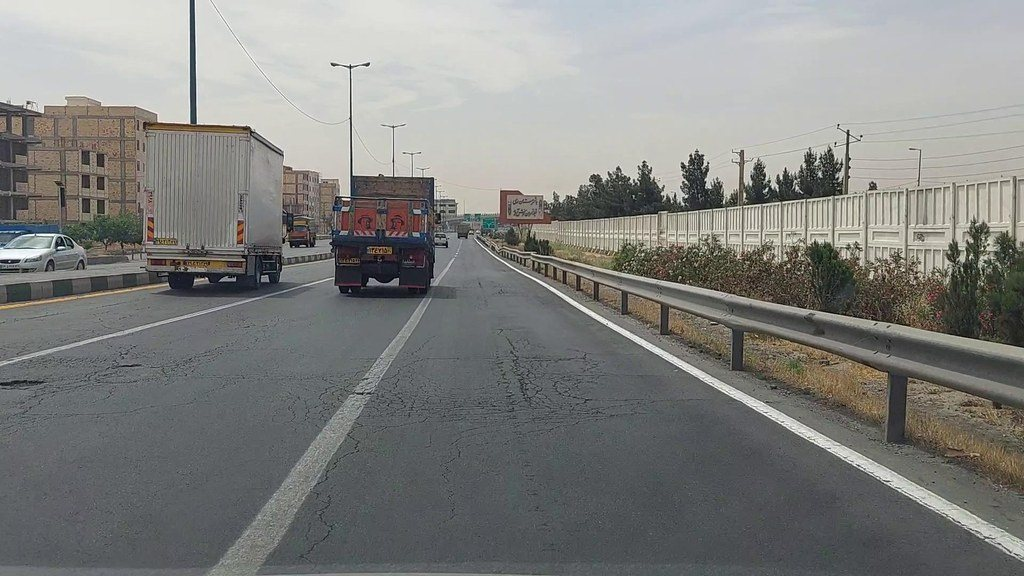
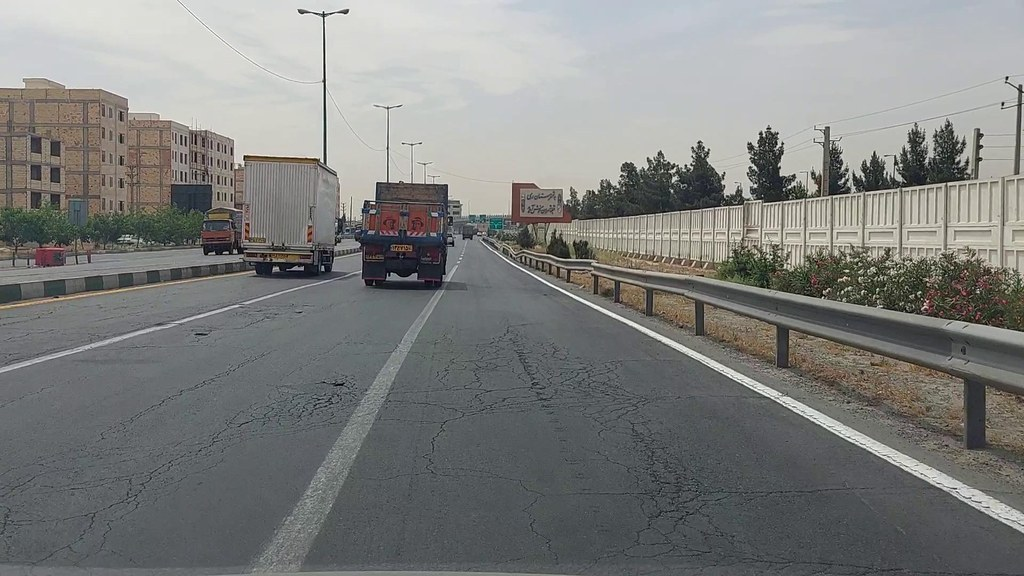
Show the frame the figure's numbers actually describe
The demo instructions sent the professor to Tehran sample 000795, and the app
answered PCI 0, Failed. That is the correct answer -- alligator cracking dense
enough that the first deduct alone is 98.8, so the corrected value hits the
100 ceiling -- but on screen it reads as a broken program, and it is useless
for a recording. The sample was picked for matching the site's picture and
never run first. It is 000800 now, whose severity triple stays clear of zero
at every setting: 51.5, 36.5, 20.5.

That exposed the real fault. The site's figure carried four boxes and a
deduct chain describing 000800 while shipping 000795 as the image, so the
picture and the numbers were of different frames. Both are 000800 now, and
the chain is the detector's own output at the app's defaults rather than the
illustrative values the file admitted to: three alligator quantities at
33.57 % for 61.5, one linear at 5.49 % for 12.4, corrected to 63.5 at q = 2.

The severity triple quoted in README.md and repeated on the site -- 50.3,
35.2, 19.4 -- no longer reproduces on any bundled frame under the current
weights. Measured again and corrected in both places.

diff --git a/deploy/site/copy.js b/deploy/site/copy.js
@@ -65,7 +65,7 @@ window.SR_COPY = {
       sub: "Montajsiz yozuv. Fotosurat baholanadi, jiddiylik oraligʻi koʻrsatiladi, deduct zanjiri ochiladi, plitkali inferens yoqib-oʻchiriladi, soʻng 15 soniyalik haydash kadrma-kadr tahlil qilinadi.",
       noticeHead: "Nimaga eʼtibor bering",
       notice: [
-        ["Bitta rasm uchun uchta baho chiqadi — model jiddiylikni bashorat qilmaydi, shuning uchun javob ", { b: "oraliq" }, " sifatida beriladi: ", { v: "50.3 / 35.2 / 19.4" }, "."],
+        ["Bitta rasm uchun uchta baho chiqadi — model jiddiylikni bashorat qilmaydi, shuning uchun javob ", { b: "oraliq" }, " sifatida beriladi: ", { v: "51.5 / 36.5 / 20.5" }, "."],
         ["Kamera balandligini oʻzgartirsangiz PCI siljiydi. Bu nuqson emas — oʻlchov shu farazga tayanadi va u yashirilmaydi."],
         ["Plitkali inferensni oʻchiring: 4K kadrda aniqlashlar soni tushib ketadi. Bizning kadrlarimizda butun kadr boʻyicha ", { v: "0" }, " va ", { v: "2" }, " ta topilgan joyda plitkalab ", { v: "2" }, " va ", { v: "4" }, " ta topilgan."],
       ],
@@ -188,7 +188,7 @@ window.SR_COPY = {
       sub: "Запись без монтажа. Оценивается фотография, показывается диапазон степеней тяжести, раскрывается цепочка вычитаемых значений, включается и выключается тайловый инференс, затем 15-секундная поездка анализируется покадрово.",
       noticeHead: "На что обратить внимание",
       notice: [
-        ["Для одного снимка получаются три оценки — модель не предсказывает степень тяжести, поэтому ответ даётся как ", { b: "диапазон" }, ": ", { v: "50,3 / 35,2 / 19,4" }, "."],
+        ["Для одного снимка получаются три оценки — модель не предсказывает степень тяжести, поэтому ответ даётся как ", { b: "диапазон" }, ": ", { v: "51,5 / 36,5 / 20,5" }, "."],
         ["Измените высоту камеры — PCI сдвинется. Это не дефект: измерение опирается на это допущение, и оно не скрыто."],
         ["Выключите тайловый инференс: на 4K-кадре число обнаружений падает. На наших кадрах по всему кадру находилось ", { v: "0" }, " и ", { v: "2" }, " объекта там, где по тайлам — ", { v: "2" }, " и ", { v: "4" }, "."],
       ],
@@ -311,7 +311,7 @@ window.SR_COPY = {
       sub: "An unedited recording. A photograph is graded, the severity range is shown, the deduct chain opens, tiled inference is switched on and off, then a 15-second drive is analysed frame by frame.",
       noticeHead: "What to notice",
       notice: [
-        ["One image produces three scores — the model does not predict severity, so the answer is given as a ", { b: "range" }, ": ", { v: "50.3 / 35.2 / 19.4" }, "."],
+        ["One image produces three scores — the model does not predict severity, so the answer is given as a ", { b: "range" }, ": ", { v: "51.5 / 36.5 / 20.5" }, "."],
         ["Change the camera height and the PCI moves. That is not a flaw: the measurement rests on that assumption, and the assumption is not hidden."],
         ["Switch tiled inference off: detections on a 4K frame drop away. On our own frames, whole-frame inference returned ", { v: "0" }, " and ", { v: "2" }, " detections where tiling returned ", { v: "2" }, " and ", { v: "4" }, "."],
       ],

diff --git a/deploy/site/data.js b/deploy/site/data.js
@@ -4,13 +4,12 @@
    repository, and the sources are listed at the foot of that document:
    · S1–S12 PCI, whole street 51.4, A 56.4 / B 46.4 — DATA/docs/YANGIZAMON_PCI.md §2
    · S7 vs S11, deduct 62.6 / 16.9 — same file, §3
-   · severity triple 50.3 / 35.2 / 19.4 — app.py, README.md
+   · severity triple 51.5 / 36.5 / 20.5 — measured on the sample named above
    · camera height 1.70 m — app.py:355
 
-   The per-row quantities in the deduct chain and the bounding-box geometry are
-   the one exception: they come from the detector at run time. They are
-   internally consistent with the score shown (100 − 64.8 = 35.2). Replace them
-   with a real detector run before the jury sees this. */
+   The deduct chain and the boxes were illustrative until the detector was run
+   against the frame the figure actually ships; they are its real output now,
+   so there is nothing left on this page a reader cannot reproduce. */
 window.SR_DATA = {
   sections: [
     { s: "S1", cdl: 28.37, pci: 52.3 }, { s: "S2", cdl: 28.89, pci: 64.6 },
@@ -28,18 +27,23 @@ window.SR_DATA = {
   ],
   frame: {
     roi: { y: 45, h: 55 },
+    /* Every value below is the detector's own output for the sample named in
+       the caption, at the app's default settings -- 1.70 m, 25 mm, horizon
+       0.139, confidence 0.25, tiling on, medium severity. Open that sample in
+       the app and the screen matches this figure. Nothing here is drawn by
+       hand, because a figure a reader cannot reproduce is worth less than one
+       with fewer boxes in it. */
     boxes: [
-      { cls: "alligator_crack", x: 41, y: 60, w: 14, h: 13, label: "alligator 0.62" },
-      { cls: "longitudinal_transverse_crack", x: 57, y: 56, w: 21, h: 6, label: "long/trans 0.41" },
-      { cls: "longitudinal_transverse_crack", x: 22, y: 72, w: 17, h: 5, label: "long/trans 0.35" },
-      { cls: "pothole", x: 2, y: 63, w: 7, h: 6, label: "pothole 0.33", seam: true },
+      { cls: "alligator_crack", x: 0, y: 63, w: 37, h: 36, label: "alligator 0.87" },
+      { cls: "alligator_crack", x: 38, y: 56, w: 40, h: 43, label: "alligator 0.69" },
+      { cls: "alligator_crack", x: 41, y: 56, w: 22, h: 26, label: "alligator 0.68" },
+      { cls: "longitudinal_transverse_crack", x: 12, y: 61, w: 14, h: 12, label: "long/trans 0.47" },
     ],
     rows: [
-      { distress: { uz: "Toʻrsimon (charchoq) yoriq", ru: "Сетка усталостных трещин", en: "Alligator cracking" }, n: 1, quantity: "3.4", unit: { uz: "m²", ru: "м²", en: "m²" }, density: "3.18", deduct: 41.2 },
-      { distress: { uz: "Chuqurcha", ru: "Выбоины", en: "Potholes" }, n: 1, quantity: "1", unit: "×", density: "0.93", deduct: 32.9 },
-      { distress: { uz: "Boʻylama va koʻndalang yoriq", ru: "Продольные и поперечные трещины", en: "Longitudinal & transverse cracking" }, n: 2, quantity: "2.6", unit: { uz: "m", ru: "м", en: "m" }, density: "2.43", deduct: 18.7 },
+      { distress: { uz: "Toʻrsimon (charchoq) yoriq", ru: "Сетка усталостных трещин", en: "Alligator cracking" }, n: 3, quantity: "9.7", unit: { uz: "m²", ru: "м²", en: "m²" }, density: "33.57", deduct: 61.5 },
+      { distress: { uz: "Boʻylama va koʻndalang yoriq", ru: "Продольные и поперечные трещины", en: "Longitudinal & transverse cracking" }, n: 1, quantity: "1.6", unit: { uz: "m", ru: "м", en: "m" }, density: "5.49", deduct: 12.4 },
     ],
-    q: 3, maxCdv: 64.8, pci: 35.2,
+    q: 2, maxCdv: 63.5, pci: 36.5,
   },
 };
 

diff --git a/deploy/professor/1_DEMO_YOZUV.md b/deploy/professor/1_DEMO_YOZUV.md
@@ -65,11 +65,22 @@ Ilovaning **Sample** roʻyxatidan aynan shu uchtasini tanlang. Ular saytda
 koʻrsatilgan kadrlarning oʻzi, ya'ni video bilan sayt bir xil rasmni koʻrsatadi
 va hakam ikkisini bogʻlay oladi.
 
-| Kadr | Roʻyxatda qanday koʻrinadi | Nega aynan shu |
+| Kadr | Roʻyxatda qanday koʻrinadi | Kutilgan natija |
 |---|---|---|
-| **Fotosurat 1** | `attain tehran  Attain SMP WS v2 000795` | Saytdagi ikkinchi rasm shu. 1024×576 |
-| **Fotosurat 2** | `yangizamon forward 160s` | Saytdagi asosiy (hero) kadr shu. Toshkent, 1920×1080 |
+| **Fotosurat 1** | `attain tehran  Attain SMP WS v2 000800` | PCI **36.5 — Juda yomon** · 4 aniqlash · 28.9 m² |
+| **Fotosurat 2** | `yangizamon forward 160s` | PCI **83.7 — Qoniqarli** · Toshkent, 1920×1080 |
 | **Video** | `yangizamon 15s` | 15 soniya, tahlil ~45–60 s davom etadi |
+
+⚠ **`000795` ni tanlamang.** U PCI **0 — Failed** beradi. Bu dasturning xatosi
+emas: oʻsha kadrda toʻrsimon yoriq shunchalik zichki, chegirmalar yigʻindisi 100
+shiftiga urilади va PCI nolga tushadi — ASTM aynan shunday ishlaydi. Lekin
+ekranda `0` va `Failed` koʻringani buzuq dasturdek oʻqiladi, shuning uchun demo
+uchun yaramaydi. `000528` ham oʻrta jiddiylikda 12.9 beradi va yuqorida nolga
+tushadi — uni ham tanlamang.
+
+**12-kadr (jiddiylik slayderi) uchun `000800` ni ishlating** — faqat oʻshanda
+uchala qiymat ham noldan katta va bir-biridan aniq farq qiladi:
+past **51.5** → oʻrta **36.5** → yuqori **20.5**.
 
 Fayllar repoda: `samples/` papkasida. Ularni alohida yuklab olish **shart emas** —
 ilovaning oʻzida tayyor turibdi, roʻyxatdan tanlansa boʻldi.
@@ -88,7 +99,7 @@ tomoshabin saytdagi rasmning qanday hosil boʻlganini koʻradi.
 | 09 | Aniqlash qatlamiga yaqinlashish | 8 s | Ramkalar va sinf nomlari oʻqilsin |
 | 10 | Baho kartasi va yetti bandli shkala | 8 s | |
 | 11 | **Deduct zanjiri jadvali** | 12 s | Eng muhim kadr. Zichlik → chegirma → tuzatilgan → PCI |
-| 12 | **Jiddiylik slayderi**: past → oʻrta → yuqori | 12 s | Uch qiymat oʻzgarishini koʻrsating |
+| 12 | **Jiddiylik slayderi**: past → oʻrta → yuqori | 12 s | `000800` da: 51.5 → 36.5 → 20.5 |
 | 13 | **Kamera balandligi**: 1.70 → 2.20 → 1.70 | 12 s | PCI siljishini koʻrsating. Bu — halollik dalili |
 | 14 | **Plitkali inferens**: yoqilgan → oʻchirilgan → yoqilgan | 15 s | Aniqlashlar yoʻqolib qaytishi koʻrinsin |
 

diff --git a/README.md b/README.md
@@ -155,7 +155,8 @@ deep, so they overlap and adding them would count the same distress twice.*
   the measurement rests on.
 - **Severity slider** — the model has no severity head, so a severity is applied
   to every detection. Sweeping it shows the range the answer really occupies.
-  On the bundled Tehran frame: **50.3 → 35.2 → 19.4** for low → medium → high.
+  On the bundled Tehran frame `attain_tehran__Attain_SMP_WS_v2_000800.jpg`:
+  **51.5 → 36.5 → 20.5** for low → medium → high.
 
 ## What is actually hard here
 
